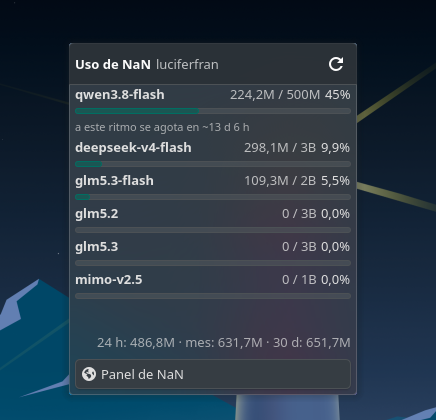
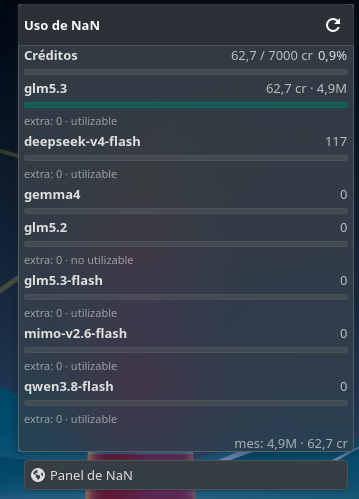
docs: explain the credit fund and refresh the popup screenshot
Refs #1

diff --git a/README.md b/README.md
@@ -24,7 +24,7 @@ ritmo de consumo y el total del mes.
 <p align="center"><sub>El indicador en el panel: icono, anillo de nivel, porcentaje y días hasta el reset.</sub></p>
 
 <p align="center">
-  <img src="screenshots/popup.png" alt="Popup con una barra por modelo, la proyección del ritmo y el consumo agregado" width="380">
+  <img src="screenshots/popup.png" alt="Popup con el fondo de créditos, el gasto por modelo y el consumo del mes" width="359">
 </p>
 <p align="center"><sub>El popup: una barra por modelo, la proyección del ritmo, el consumo agregado y el botón al panel de NaN.</sub></p>
 
@@ -135,14 +135,24 @@ Desde ⚙ en el popup o en la configuración del widget:
 
 ## Cómo funciona
 
-La API de inferencia de NaN (`api.nan.builders/v1`, LiteLLM) no expone uso. El
-backend del panel web, `cloud-api.nan.builders`, sí, con la misma key como
-`Bearer`. Sus rutas salen del bundle JS del panel y **no tienen contrato
-público**: pueden cambiar sin aviso.
+Con la misma key como `Bearer` responden dos hosts. Ninguna ruta tiene
+contrato público (salen del bundle JS del panel o se descubrieron probando):
+pueden cambiar sin aviso.
 
 | ruta | uso aquí |
 | --- | --- |
-| `GET /api/usage/quota` | `periodStart` y `models[]` con `tokensUsed`, `cap`, `remaining`, `periodEnd`, `extraTokens`, `extraUsable`; alimenta las barras, la línea de tokens extra y el total del mes |
+| `GET api.nan.builders/v1/usage?start_date=…` | informe en vivo por día y modelo (`data[]`) y el fondo de créditos (`credits`, opcional): medidor principal, gasto por modelo, actividad y línea `mes:` |
+| `GET cloud-api.nan.builders/api/usage/quota` | `models[]` con `tokensUsed`, `cap`, `periodEnd`, `extraTokens`, `extraUsable`: topes y tokens extra, y **respaldo** si `/v1/usage` falla |
+
+Desde noviembre de 2026 NaN limita con un **fondo de créditos** y los
+contadores de `/api/usage/quota` dejaron de actualizarse. Por eso, si hay
+`credits`, el medidor del panel es `credits.used / credits.allowance` (con
+reinicio en `period_end` y proyección de ritmo), y las barras por modelo
+muestran los créditos que gastó cada uno (su parte del fondo, sin nivel de
+alerta). Sin fondo, se usan las barras de la cuota, pero una barra cuyo
+`updatedAt` es anterior a la última actividad del modelo se marca «sin
+actualizar desde …», no alerta y el panel no la elige. Se piden las dos rutas
+en cada sondeo; el widget solo da error si fallan las dos.
 
 Desde octubre de 2026 las rutas `GET /api/auth/me` y `GET /api/metrics/usage`
 responden `401 session_required` a las API keys (solo aceptan sesión del

diff --git a/README.en.md b/README.en.md
@@ -25,7 +25,7 @@ sign up.
 <p align="center"><sub>The indicator on the panel: icon, ring gauge, percentage, and days until reset.</sub></p>
 
 <p align="center">
-  <img src="screenshots/popup.png" alt="Popup with a bar per model, rate projection, and aggregated consumption" width="380">
+  <img src="screenshots/popup.png" alt="Popup with the credit fund, per-model spend and the month total" width="359">
 </p>
 <p align="center"><sub>The popup: a bar per model, rate projection, aggregated consumption, and the button to the NaN dashboard.</sub></p>
 
@@ -136,14 +136,23 @@ From ⚙ in the popup or in the widget configuration:
 
 ## How it works
 
-NaN's inference API (`api.nan.builders/v1`, LiteLLM) doesn't expose usage. The
-web dashboard backend, `cloud-api.nan.builders`, does, with the same key as a
-`Bearer` token. These routes come from the web bundle and **have no public
-contract**: they may change without notice.
+Two hosts answer to the same key as a `Bearer` token. Neither route has a
+public contract (they come from the web bundle or were found by trial): they may
+change without notice.
 
 | route | use here |
 | --- | --- |
-| `GET /api/usage/quota` | `periodStart` and `models[]` with `tokensUsed`, `cap`, `remaining`, `periodEnd`, `extraTokens`, `extraUsable`; feeds the bars, the extra-tokens line and the month total |
+| `GET api.nan.builders/v1/usage?start_date=…` | live per-day, per-model report (`data[]`) and the credit fund (`credits`, optional): main gauge, per-model spend, activity and the `mes:` line |
+| `GET cloud-api.nan.builders/api/usage/quota` | `models[]` with `tokensUsed`, `cap`, `periodEnd`, `extraTokens`, `extraUsable`: caps and extra tokens, and the **fallback** if `/v1/usage` fails |
+
+Since November 2026 NaN limits usage with a **credit fund** and the counters of
+`/api/usage/quota` stopped updating. So when `credits` is present the panel
+gauge is `credits.used / credits.allowance` (resetting at `period_end`, with
+pace projection) and the per-model bars show the credits each model spent (its
+share of the fund, with no alert level). Without a fund the quota bars are used,
+but a bar whose `updatedAt` is older than the model's last activity is marked
+"sin actualizar desde …", raises no alert and is never picked for the panel.
+Both routes are requested on every poll; the widget only errors if both fail.
 
 Since October 2026 the routes `GET /api/auth/me` and `GET /api/metrics/usage`
 answer `401 session_required` to API keys (they only accept a browser session),
